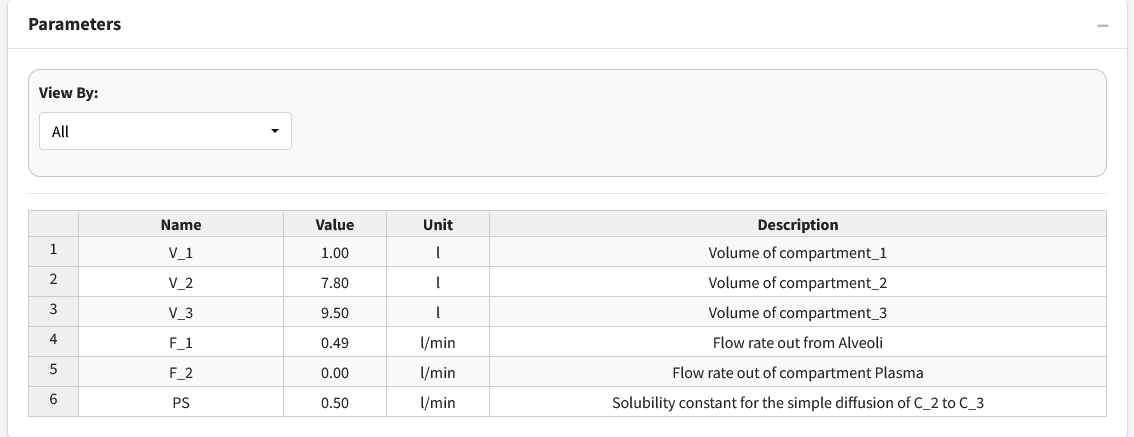
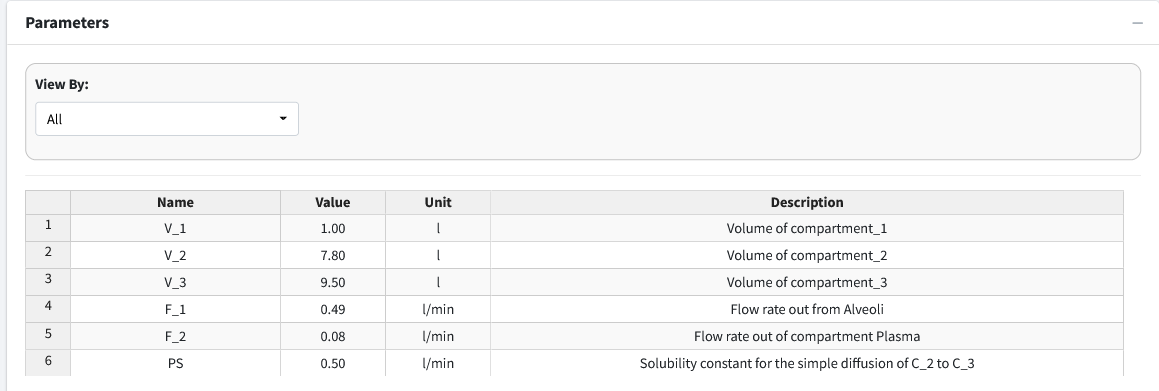
doc: update pe image and sc iamge

diff --git a/docs/pages/tutorial_par_estimation.rst b/docs/pages/tutorial_par_estimation.rst
@@ -65,7 +65,8 @@ starting estimate (0.5 L/min).
 .. figure:: tutorial_parameter_estimation/images/4_parameters.png
 
 .. note:: The parameter table rounds to two decimal places.  This is why F_2
-          shows as 0.00 in the table.
+          shows as 0.08 in the table. If you double click the value it will
+          show as the appropriate 0.078. 
 
 For reference, here are the solved differential equations: 
 
